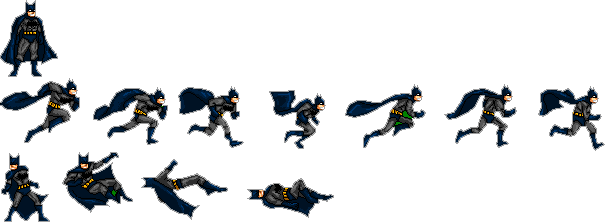
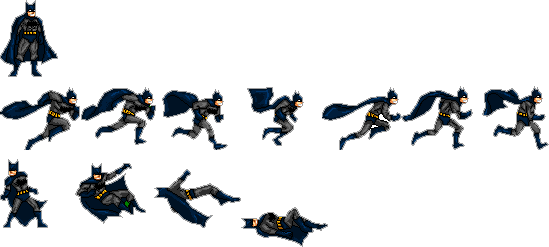
Sprite sheets added

Changed region(s): [[0.0, 0.0, 1.0, 1.0]]

diff --git a/dev/superhero.ts b/dev/superhero.ts
@@ -8,9 +8,13 @@ export class Superhero extends Entity{
     private horizontalSpeed: number = 0
     private keys: string[]
     public tagName : string
-    public lives : number = 3
+    public lives : number = 8
     private game : Game
 
+    //sprite
+    frame = 0
+    frameWidth = 64
+    enemyFPS = 0
 
     public getBoundingRect() : DOMRect {
         return this.div.getBoundingClientRect()
@@ -36,20 +40,18 @@ export class Superhero extends Entity{
         // Add the vertical speed to the y-value
         let newx = this.x + this.horizontalSpeed
         let newy = this.y + this.verticalSpeed
-        if(newx > 0 && newx + this.getBoundingRect().width < window.innerWidth){
+        if(newx > 0 && newx + this.getBoundingRect().width - 20 < window.innerWidth){
             this.x = newx
         }
         if(newy > 0 && newy + this.getBoundingRect().height < window.innerHeight){
             this.y = newy
         }
         super.update()
-
     }
 
     public hit(){
         this.lives--
-        this.x = 100
-        this.y = 400
+        this.deadSprite()
         if(this.lives < 1){
             this.game.removeSuperhero(this)
         }
@@ -64,39 +66,98 @@ export class Superhero extends Entity{
             // When the "Left" key is pressed
             case this.keys[0]:
                 // Give the vertical speed a negative value
-                this.horizontalSpeed = -5
+                this.horizontalSpeed = -3
                 this.scale = -1
+                this.runningSprite()
                 break;
             // When the "Right" key is pressed
             case this.keys[1]:
                 // Give the vertical speed a positive value
-                this.horizontalSpeed = 5
+                this.horizontalSpeed = 3
                 this.scale = 1
+                this.runningSprite()
                 break;
             // When the "Up" key is pressed
             case this.keys[2]:     
                 // Give the vertical speed a negative value
                 this.verticalSpeed = -5
-                console.log(this.verticalSpeed);
+                this.jumpingSprite()
                 break;
             // When the "Down" key is pressed
              case this.keys[3]:
                 // Give the vertical speed a positive value
                 this.verticalSpeed = 5
+                this.jumpingSprite()
                 break;
             default:
                 break;
         }
     }
+
+    private runningSprite() {
+        if (this.tagName === "batman") {
+            console.log("Batman Running")
+            this.row = 1
+            this.animFrames = 6
+            this.frameWidth = 80
+            if(this.fps % 1 == 0) this.frame++
+            if(this.frame > this.animFrames) this.frame = 0
+            let pos = 0 - (this.frame * this.frameWidth)
+            this.div.style.width = "80px"
+            this.div.style.height = "64px"
+            this.div.style.backgroundPosition = `${pos}px ${0-this.row*77}px`     
+        }
+        // TODO Catwoman Sprite
+        if (this.tagName === "catwoman") console.log("Catwoman Running") 
+    }
+
+    private stadingSprite(){
+        if (this.tagName === "batman") {
+            this.div.style.backgroundPosition = `0px 0px`
+            this.div.style.width = "58px"
+            this.div.style.height = "77px"
+        }
+        if (this.tagName === "catwoman") this.div.style.backgroundPosition = `0px 0px`     
+    }
+
+    private jumpingSprite(){
+        // TODO Jumping sprite
+
+    }
+
+    private deadSprite() {
+        if (this.tagName === "batman") {
+            console.log("Batman Running")
+            this.row = 2
+            this.animFrames = 3
+            this.frameWidth = 87
+            if(this.fps % 1 == 0) this.frame++
+            if(this.frame > this.animFrames) this.frame = 0
+            let pos = 20 - (this.frame * this.frameWidth)
+            this.div.style.width = "87px"
+            this.div.style.height = "107px"
+            this.div.style.backgroundPosition = `${pos}px ${0-this.row*77}px`     
+        }
+        // TODO Catwoman DeadSprite
+        if (this.tagName === "catwoman") console.log("Catwoman Running") 
+
+        
+        // this.x = 100
+        // this.y = 400
+    }
+
+
     onKeyUp(e: KeyboardEvent): void {
         // Check if ArrowUp or ArrowDown key has been released
         if(e.key == this.keys[0] || e.key == this.keys[1]){
             // Make the horizontal speed 0
             this.horizontalSpeed = 0
+            this.stadingSprite()
         }
         if (e.key == this.keys[2] || e.key == this.keys[3]) {
             // Make the vertical speed 0
             this.verticalSpeed = 0
+            this.stadingSprite()
         }
     }
 }

diff --git a/docs/js/superhero.js b/docs/js/superhero.js
@@ -4,7 +4,10 @@ export class Superhero extends Entity {
         super(tagName);
         this.verticalSpeed = 0;
         this.horizontalSpeed = 0;
-        this.lives = 3;
+        this.lives = 8;
+        this.frame = 0;
+        this.frameWidth = 64;
+        this.enemyFPS = 0;
         window.addEventListener("keydown", (e) => this.onKeyDown(e));
         window.addEventListener("keyup", (e) => this.onKeyUp(e));
         this.tagName = tagName;
@@ -20,7 +23,7 @@ export class Superhero extends Entity {
     update() {
         let newx = this.x + this.horizontalSpeed;
         let newy = this.y + this.verticalSpeed;
-        if (newx > 0 && newx + this.getBoundingRect().width < window.innerWidth) {
+        if (newx > 0 && newx + this.getBoundingRect().width - 20 < window.innerWidth) {
             this.x = newx;
         }
         if (newy > 0 && newy + this.getBoundingRect().height < window.innerHeight) {
@@ -30,8 +33,7 @@ export class Superhero extends Entity {
     }
     hit() {
         this.lives--;
-        this.x = 100;
-        this.y = 400;
+        this.deadSprite();
         if (this.lives < 1) {
             this.game.removeSuperhero(this);
         }
@@ -39,30 +41,82 @@ export class Superhero extends Entity {
     onKeyDown(e) {
         switch (e.key) {
             case this.keys[0]:
-                this.horizontalSpeed = -5;
+                this.horizontalSpeed = -3;
                 this.scale = -1;
+                this.runningSprite();
                 break;
             case this.keys[1]:
-                this.horizontalSpeed = 5;
+                this.horizontalSpeed = 3;
                 this.scale = 1;
+                this.runningSprite();
                 break;
             case this.keys[2]:
                 this.verticalSpeed = -5;
-                console.log(this.verticalSpeed);
+                this.jumpingSprite();
                 break;
             case this.keys[3]:
                 this.verticalSpeed = 5;
+                this.jumpingSprite();
                 break;
             default:
                 break;
         }
     }
+    runningSprite() {
+        if (this.tagName === "batman") {
+            console.log("Batman Running");
+            this.row = 1;
+            this.animFrames = 6;
+            this.frameWidth = 80;
+            if (this.fps % 1 == 0)
+                this.frame++;
+            if (this.frame > this.animFrames)
+                this.frame = 0;
+            let pos = 0 - (this.frame * this.frameWidth);
+            this.div.style.width = "80px";
+            this.div.style.height = "64px";
+            this.div.style.backgroundPosition = `${pos}px ${0 - this.row * 77}px`;
+        }
+        if (this.tagName === "catwoman")
+            console.log("Catwoman Running");
+    }
+    stadingSprite() {
+        if (this.tagName === "batman") {
+            this.div.style.backgroundPosition = `0px 0px`;
+            this.div.style.width = "58px";
+            this.div.style.height = "77px";
+        }
+        if (this.tagName === "catwoman")
+            this.div.style.backgroundPosition = `0px 0px`;
+    }
+    jumpingSprite() {
+    }
+    deadSprite() {
+        if (this.tagName === "batman") {
+            console.log("Batman Running");
+            this.row = 2;
+            this.animFrames = 3;
+            this.frameWidth = 87;
+            if (this.fps % 1 == 0)
+                this.frame++;
+            if (this.frame > this.animFrames)
+                this.frame = 0;
+            let pos = 20 - (this.frame * this.frameWidth);
+            this.div.style.width = "87px";
+            this.div.style.height = "107px";
+            this.div.style.backgroundPosition = `${pos}px ${0 - this.row * 77}px`;
+        }
+        if (this.tagName === "catwoman")
+            console.log("Catwoman Running");
+    }
     onKeyUp(e) {
         if (e.key == this.keys[0] || e.key == this.keys[1]) {
             this.horizontalSpeed = 0;
+            this.stadingSprite();
         }
         if (e.key == this.keys[2] || e.key == this.keys[3]) {
             this.verticalSpeed = 0;
+            this.stadingSprite();
         }
     }
 }

diff --git a/dev/enemy.ts b/dev/enemy.ts
@@ -6,10 +6,10 @@ export class Enemy extends Entity {
     private game : Game
 
     //sprite
-    private animFrames : number = 8
-    private frame : number = 0
-    private frameWidth : number  = 64
-    private enemyFPS : number  = 0
+    animFrames = 8
+    frame = 0
+    frameWidth = 64
+    enemyFPS = 0
 
 
     public getBoundingRect() : DOMRect {
@@ -35,23 +35,34 @@ export class Enemy extends Entity {
 
     update(){
         // Add the vertical speed to the y-value
-        this.y += 0
-        this.x += -2
+        this.x += -2       
         super.update()
 
         //sprite
-        this.enemyFPS++
-        if(this.enemyFPS % 10 == 0) this.frame++
-        if(this.enemyFPS % 60 == 0) this.shoot()
+        this.runningSprite()
+
+        //Let enemy shoot
+        if(this.fps % 60 == 0) this.shoot()
+    }
+
+    private runningSprite(){
+        if(this.fps % 5 == 0) this.frame++
         if(this.frame > this.animFrames) this.frame = 0
         let pos = 16 - (this.frame * this.frameWidth)
         this.div.style.backgroundPosition = `${pos}px 0px`
     }
 
+    private shootingSprite(){
+        
+    }
+
     private shoot(){
         if(Math.random() < 0.2) {
-        this.game.addBullet(new Bullet("bullet", this))
+
+            this.game.addBullet(new Bullet("bullet", this))
         }
     }
 
+
 }
+

diff --git a/docs/js/enemy.js b/docs/js/enemy.js
@@ -22,18 +22,21 @@ export class Enemy extends Entity {
         return this.y;
     }
     update() {
-        this.y += 0;
         this.x += -2;
         super.update();
-        this.enemyFPS++;
-        if (this.enemyFPS % 10 == 0)
-            this.frame++;
-        if (this.enemyFPS % 60 == 0)
+        this.runningSprite();
+        if (this.fps % 60 == 0)
             this.shoot();
+    }
+    runningSprite() {
+        if (this.fps % 5 == 0)
+            this.frame++;
         if (this.frame > this.animFrames)
             this.frame = 0;
         let pos = 16 - (this.frame * this.frameWidth);
         this.div.style.backgroundPosition = `${pos}px 0px`;
+    }
+    shootingSprite() {
     }
     shoot() {
         if (Math.random() < 0.2) {

diff --git a/dev/entity.ts b/dev/entity.ts
@@ -3,6 +3,12 @@ export class Entity {
     protected y : number = 0 
     protected scale : number = 1
     protected div: HTMLElement
+    protected animFrames : number = 0
+    protected frame : number = 0
+    protected frameWidth : number = 0
+    protected fps : number = 0
+    protected row : number = 0
+
 
     constructor(tagName : string) {
         this.create(tagName)
@@ -18,6 +24,7 @@ export class Entity {
     public update(){
         // Draw Superheo on the right coordinate (x, y)
         this.div.style.transform = `translate(${this.x}px, ${this.y}px) scaleX(${this.scale})`
+        this.fps++
     }
 
     public remove(){

diff --git a/docs/js/entity.js b/docs/js/entity.js
@@ -3,6 +3,11 @@ export class Entity {
         this.x = 0;
         this.y = 0;
         this.scale = 1;
+        this.animFrames = 0;
+        this.frame = 0;
+        this.frameWidth = 0;
+        this.fps = 0;
+        this.row = 0;
         this.create(tagName);
     }
     create(tagName) {
@@ -12,6 +17,7 @@ export class Entity {
     }
     update() {
         this.div.style.transform = `translate(${this.x}px, ${this.y}px) scaleX(${this.scale})`;
+        this.fps++;
     }
     remove() {
         this.div.remove();

diff --git a/dev/endScreen.ts b/dev/endScreen.ts
@@ -3,6 +3,7 @@ import { Game } from "./game.js";
 import { UI } from "./ui.js";
 
 export class EndScreen extends Entity{
+    //TODO Fix double End Screen
     private scoreField : HTMLElement 
     private nextGameButton : HTMLElement
     private ui : UI

diff --git a/dev/game.ts b/dev/game.ts
@@ -76,7 +76,6 @@ export class Game{
                 }
             }
         }        
-        //Update ui
         
         requestAnimationFrame(() => this.gameLoop())
     }
